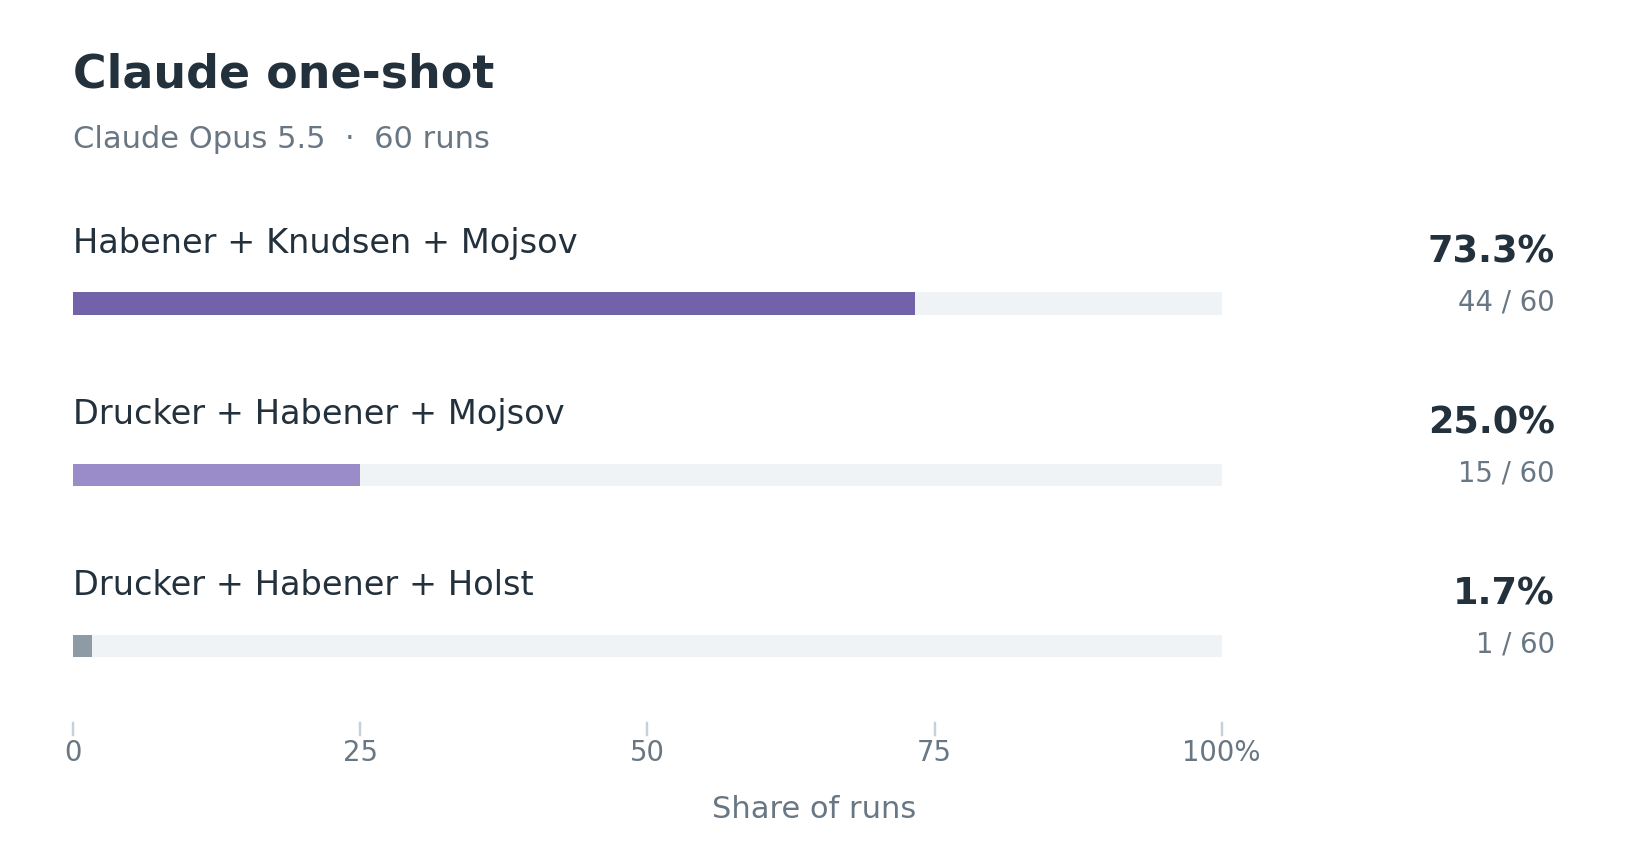
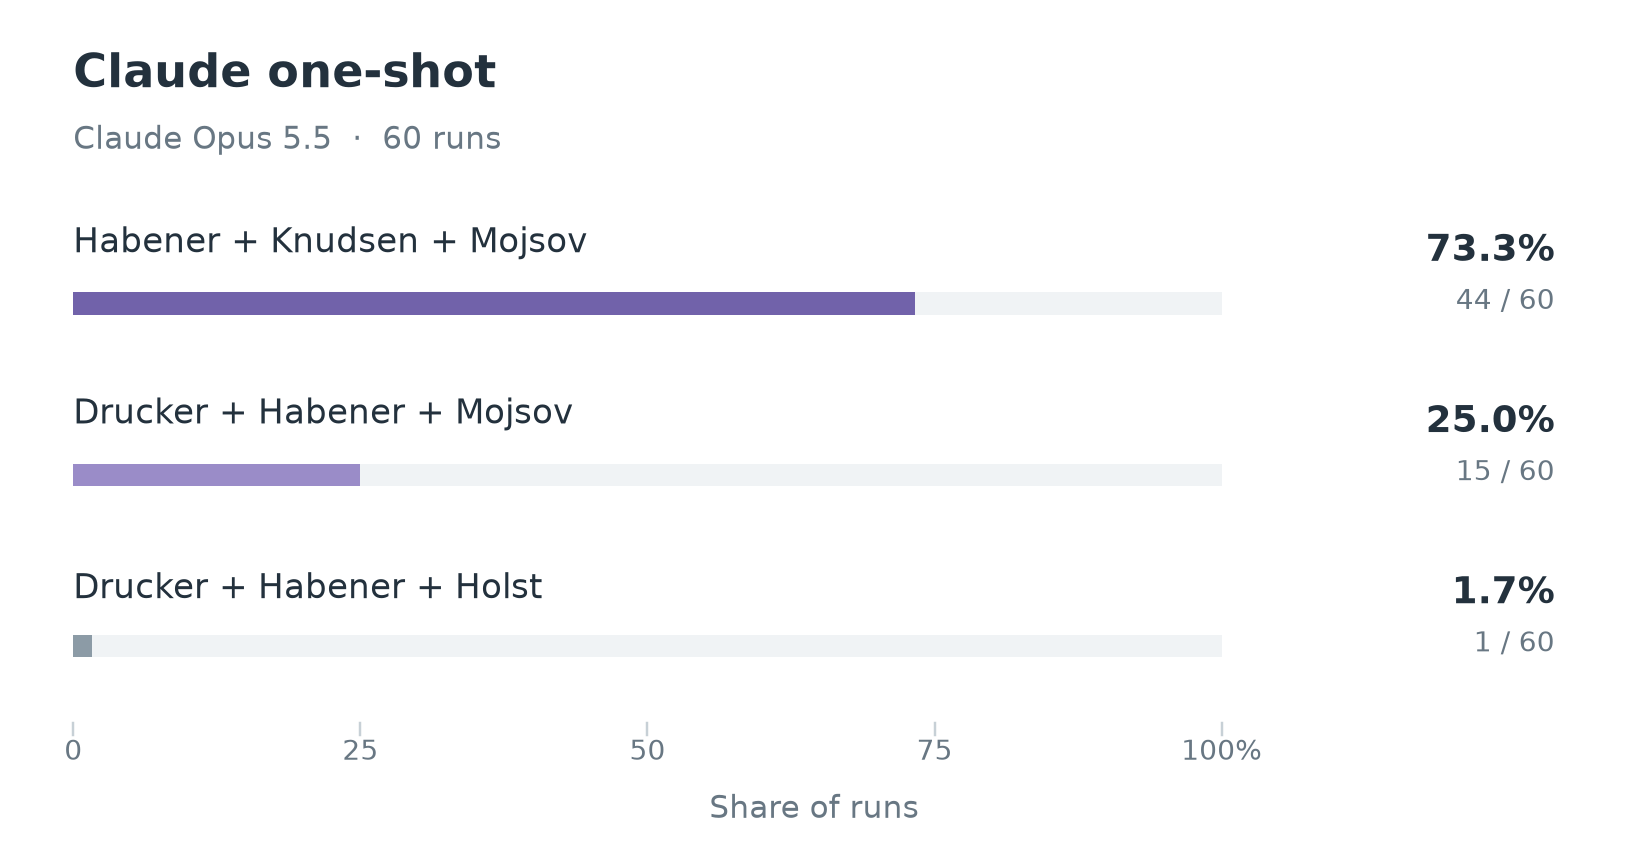
Update aggregate Medicine forecast figures

diff --git a/scripts/plot_medicine_prediction_distributions.py b/scripts/plot_medicine_prediction_distributions.py
@@ -13,6 +13,11 @@ ROOT = physics.ROOT
 physics.SLATE_COLORS.update({
     "Drucker–Holst–Mojsov": "#167D8D",
     "Drucker–Holst–Knudsen": "#4FA3AE",
+    "Frazer–Lowy–Schiller": "#C17B35",
+    "Cooper–Miller": "#7162AA",
+    "Mori–Walter": "#9A8CC8",
+    "Feldmann–Maini": "#8C9BA6",
+    "Lo": "#B0BAC1",
     "Habener–Knudsen–Mojsov": "#7162AA",
     "Drucker–Habener–Mojsov": "#9A8CC8",
 })
@@ -23,9 +28,9 @@ def label(names: list[str]) -> str:
     return "–".join(sorted(name.split()[-1] for name in names))
 
 
-def claude_committee() -> Counter[str]:
+def committee(cohort: str) -> Counter[str]:
     counts: Counter[str] = Counter()
-    for path in sorted((ROOT / "results/medicine/committee/claude").glob("sim-*/decision.json")):
+    for path in sorted((ROOT / "results/medicine/committee" / cohort).glob("sim-*/decision.json")):
         parts = json.loads(path.read_text())["winner"]["prize_parts"]
         counts[" + ".join(label(p["laureates"]) for p in parts) or "No award"] += 1
     return counts
@@ -39,13 +44,22 @@ def claude_oneshot() -> Counter[str]:
 
 
 def main() -> None:
-    committee, oneshot = claude_committee(), claude_oneshot()
-    rows = max(len(committee), len(oneshot))
+    claude = committee("claude")
+    terra = committee("gpt-5.6-terra")
+    aggregate = claude + terra
+    oneshot = claude_oneshot()
+    committee_rows = max(len(claude), len(terra))
+    oneshot_rows = max(len(claude), len(oneshot))
+    physics.plot("medicine-committee-aggregate-distribution.png", "Medicine committee aggregate",
+                 "Claude Sonnet 5.5 + GPT-5.6 Terra", aggregate, len(aggregate))
     physics.plot("medicine-claude-committee-distribution.png", "Claude committee",
-                 "Claude Sonnet 5.5", committee, rows)
+                 "Claude Sonnet 5.5", claude, committee_rows)
+    physics.plot("medicine-terra-committee-distribution.png", "Terra committee",
+                 "GPT-5.6 Terra", terra, committee_rows)
     physics.plot("medicine-claude-oneshot-distribution.png", "Claude one-shot",
-                 "Claude Opus 5.5", oneshot, rows)
-    print(dict(committee), dict(oneshot))
+                 "Claude Opus 5.5", oneshot, oneshot_rows)
+    print({"aggregate": dict(aggregate), "claude": dict(claude),
+           "terra": dict(terra), "oneshot": dict(oneshot)})
 
 
 if __name__ == "__main__":

diff --git a/results/medicine/README.md b/results/medicine/README.md
@@ -2,11 +2,26 @@
 
 ## Simulation variants
 
-The [Medicine result](../../README.md#physiology-or-medicine) currently comes from one experiment: **Claude Sonnet 5.5 committees, 60 decisions**. The nominator stage was skipped for Medicine; every committee receives the same [candidate list](../../agent-data/medicine/candidates/README.md) of 52 discoveries, in a different order per simulation. The six committee members read factual profiles, and all six vote. The GPT committee results are pending.
+The [Medicine result](../../README.md#physiology-or-medicine) aggregates **108 committee decisions**: 60 from Claude Sonnet 5.5 and 48 from GPT-5.6 Terra. The nominator stage was skipped for Medicine; every committee receives the same [candidate list](../../agent-data/medicine/candidates/README.md) of 52 discoveries, in a different order per simulation. The six committee members read factual profiles, and all six vote.
 
 <table>
   <tr>
-    <td align="center"><img src="../../docs/figures/medicine-claude-committee-distribution.png" alt="Claude committee probability distribution" width="470"></td>
+    <td align="center"><img src="../../docs/figures/medicine-committee-aggregate-distribution.png" alt="Aggregate Medicine committee outcome distribution" width="470"></td>
+  </tr>
+</table>
+
+GLP-1 wins 84 of 108 decisions (77.8%). The leading exact slate—Daniel J. Drucker, Jens Juul Holst, and Svetlana Mojsov—wins 80 decisions (74.1%). HPV vaccines place second with 13 decisions (12.0%).
+
+### Results by committee model
+
+<table>
+  <tr>
+    <td align="center"><img src="../../docs/figures/medicine-claude-committee-distribution.png" alt="Claude committee outcome distribution" width="470"></td>
+    <td align="center"><img src="../../docs/figures/medicine-terra-committee-distribution.png" alt="Terra committee outcome distribution" width="470"></td>
+  </tr>
+  <tr>
+    <td align="center"><strong>Claude Sonnet 5.5</strong></td>
+    <td align="center"><strong>GPT-5.6 Terra</strong></td>
   </tr>
 </table>
 

diff --git a/README.md b/README.md
@@ -48,10 +48,16 @@ Results pending.
 
 - **Daniel J. Drucker, Jens Juul Holst, and Svetlana Mojsov** for GLP-1 physiology and the development of incretin therapies for diabetes and obesity.
 - **Douglas R. Lowy, Ian H. Frazer, and John T. Schiller** for virus-like particle vaccines that prevent HPV infection and related cancers.
+- **Jacques F. A. P. Miller and Max D. Cooper** for discovering distinct B- and T-lymphocyte lineages and their roles in adaptive immunity.
+- **Daniel J. Drucker, Jens Juul Holst, and Lotte Bjerre Knudsen** for GLP-1 physiology and the development of incretin therapies, with alternate credit for long-acting GLP-1 drugs.
+- **Kazutoshi Mori and Peter Walter** for the unfolded protein response and signaling from the endoplasmic reticulum.
+- **Marc Feldmann and Ravinder N. Maini** for TNF blockade as a treatment for rheumatoid arthritis and inflammatory disease.
+- **Arthur L. Horwich and F. Ulrich Hartl** for chaperonin-assisted protein folding.
+- **Y. M. Dennis Lo** for fetal cell-free DNA in maternal blood and noninvasive prenatal screening.
 
 #### What the simulation analysis reveals
 
-The aggregate combines **105 committee decisions** from Claude Sonnet 5.5 and GPT-5.6 Terra. GLP-1 wins 82 decisions (78.1%): 78 select Drucker, Holst, and Mojsov, while four substitute Lotte Bjerre Knudsen for Mojsov. HPV vaccines place second with 13 decisions (12.4%). Four other discoveries account for the remaining ten decisions.
+The aggregate combines **108 committee decisions** from Claude Sonnet 5.5 and GPT-5.6 Terra. GLP-1 wins 84 decisions (77.8%): 80 select Drucker, Holst, and Mojsov, while four substitute Lotte Bjerre Knudsen for Mojsov. HPV vaccines place second with 13 decisions (12.0%). Five other discoveries account for the remaining 11 decisions.
 
 For details, check [the Medicine experiments](results/medicine/README.md).
 
